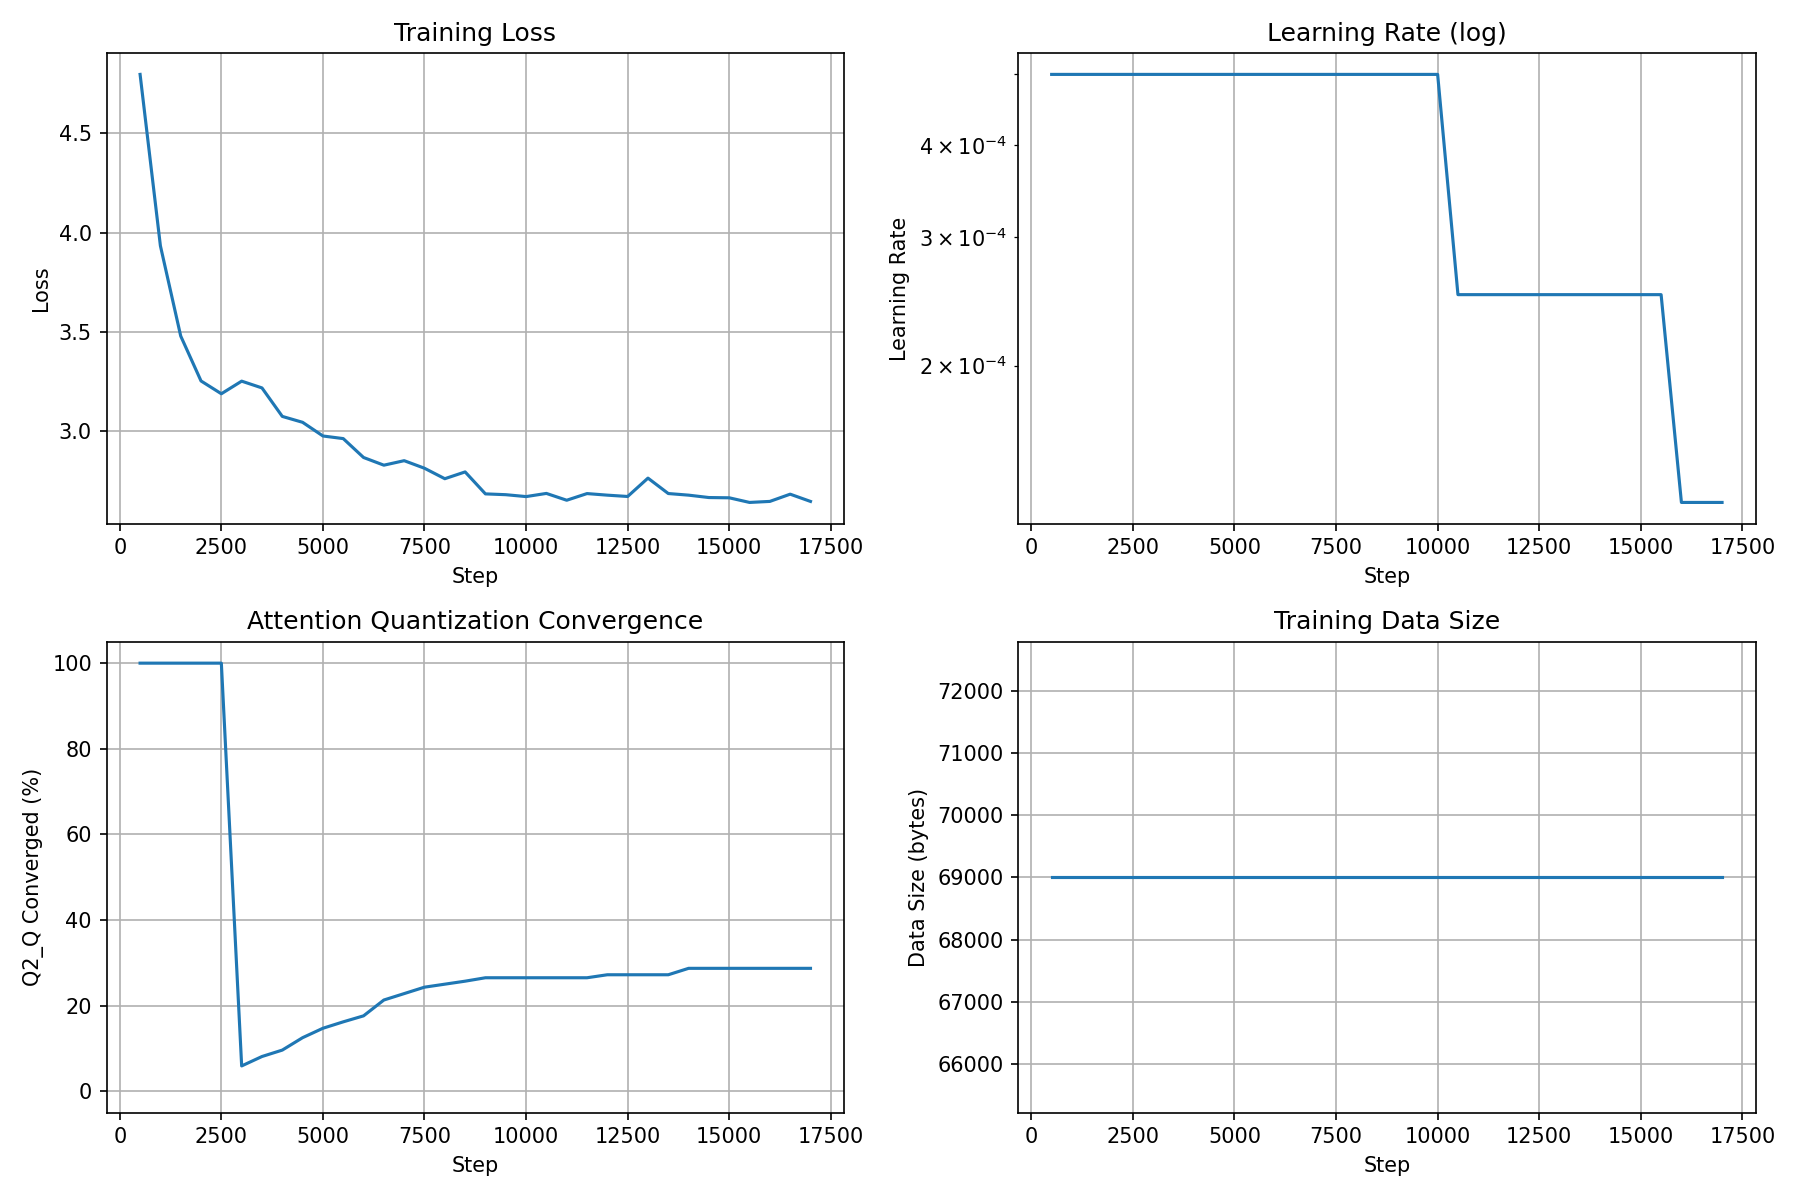
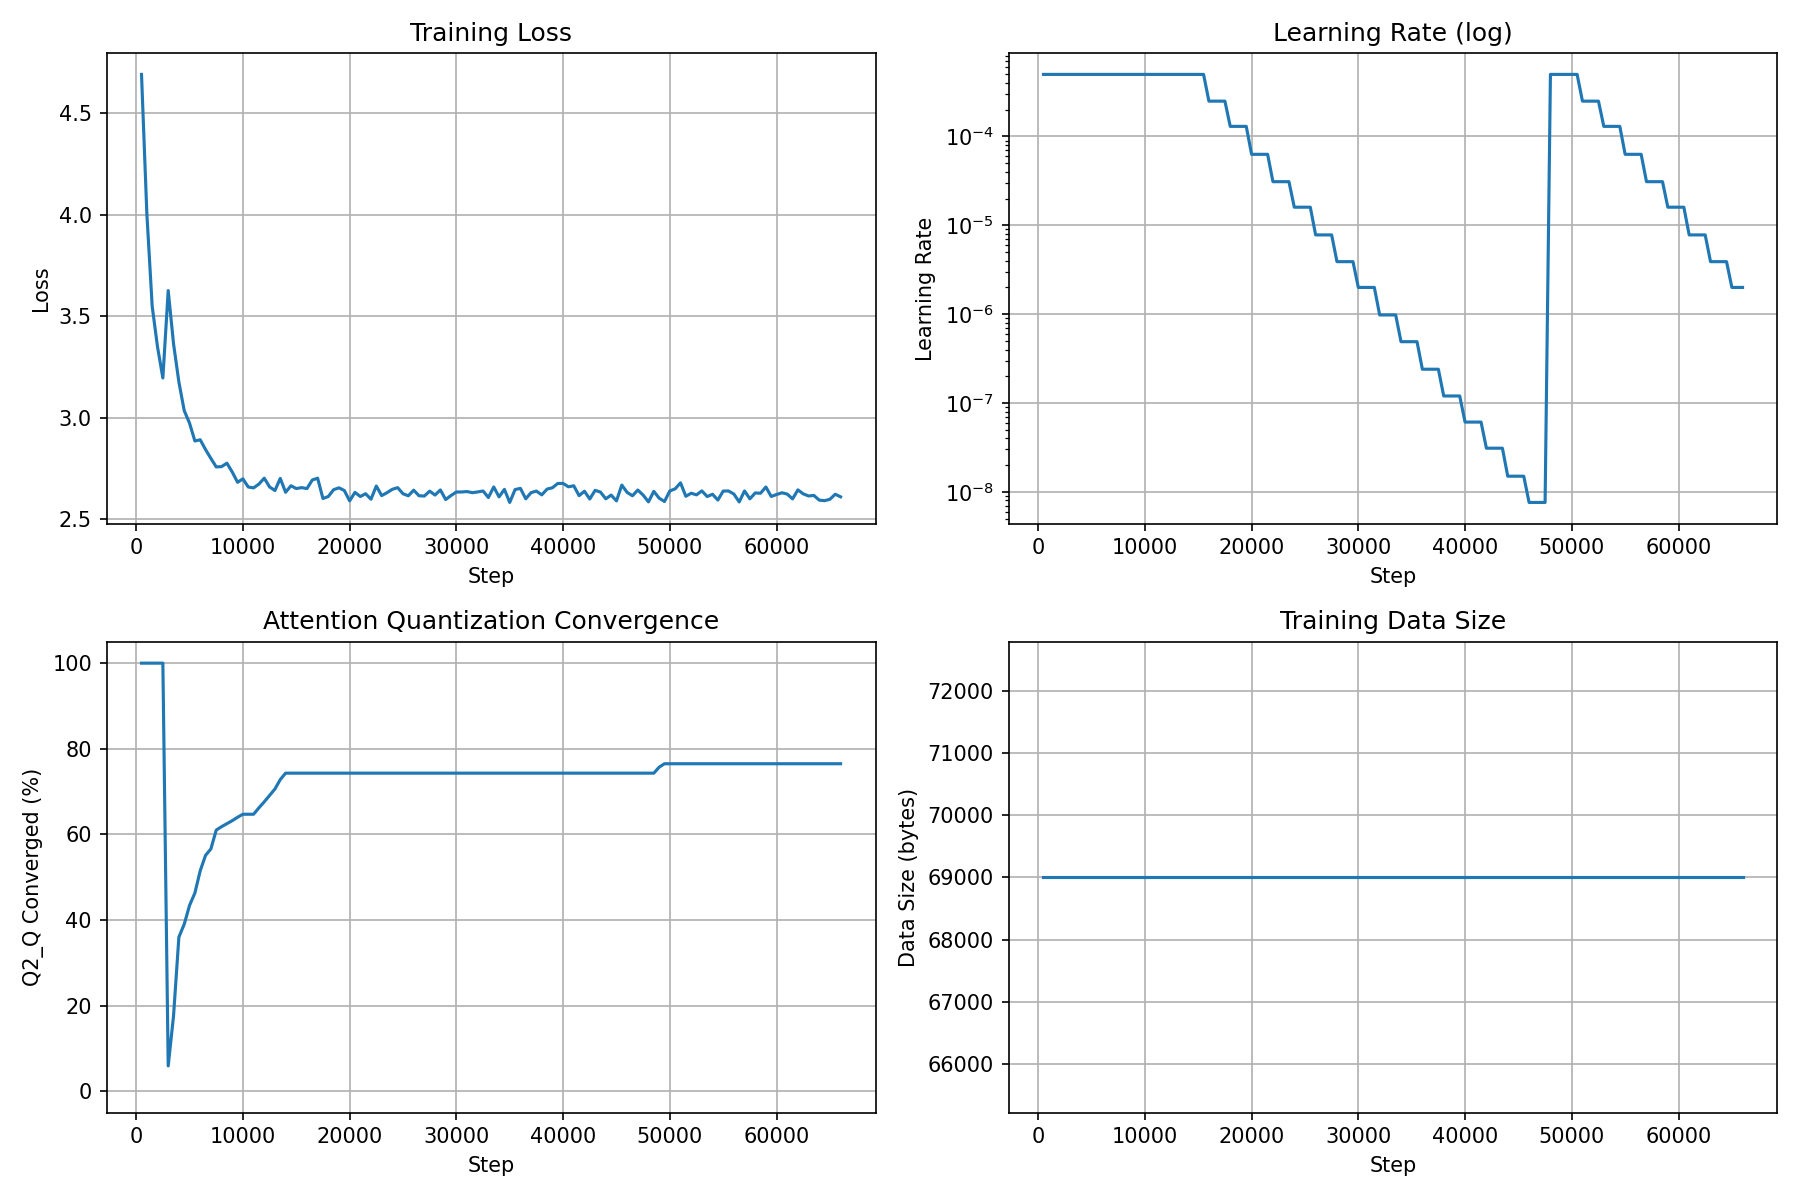
Fix loss plateau tracking: separate counter from Q2_Q counter, add best_loss tracking

diff --git a/teacher_pipeline.py b/teacher_pipeline.py
@@ -693,6 +693,8 @@ if __name__ == "__main__":
     # LR scheduler: halve LR when Q2_Q convergence plateaus
     best_q_ratio = 0.0
     q_ratio_steps = 0
+    best_loss = float('inf')
+    loss_plateau_steps = 0
 
     # Initialize log file
     log_header = "step,loss,lr,q2q_pct,data_bytes,elapsed_sec\n"
@@ -765,12 +767,18 @@ if __name__ == "__main__":
                     q_ratio_steps = 0
                 else:
                     q_ratio_steps += SAVE_INTERVAL
+                # Loss plateau tracking (independent of Q2_Q)
+                if loss.item() < best_loss - 0.05:
+                    best_loss = min(best_loss, loss.item())
+                    loss_plateau_steps = 0
+                else:
+                    loss_plateau_steps += SAVE_INTERVAL
                 if q_ratio_steps > 0 and q_ratio_steps % 2000 == 0:
                     old_lr = opt.param_groups[0]['lr']
                     should_grow = False
                     if q_ratio > 95 and (old_lr < 1e-8 or q_ratio > 98):
                         should_grow = True  # Q2_Q converged
-                    elif q_ratio_steps >= 10000 and loss.item() < 5.0:
+                    elif loss_plateau_steps >= 10000 and loss.item() < 5.0:
                         should_grow = True  # Loss plateaued for 10K steps
                     if should_grow:
                         _model = _model.grow()